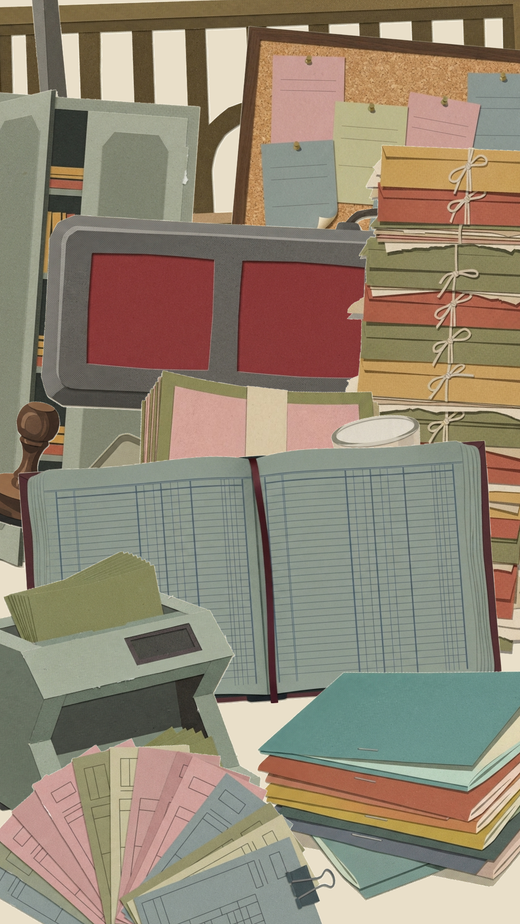
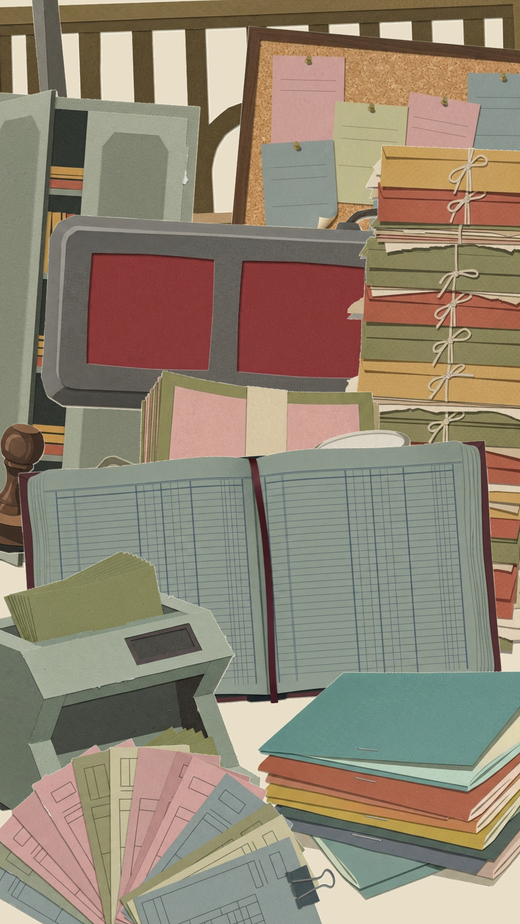
Ep04 Shot 0: wire the solved layout in and retime for thirteen pieces
BankFlatLay now carries the coverage-verified layout, with both width and
height set from the ratio measured off each keyed PNG rather than the
ratio its prompt asked for -- setting width alone leaves the image
resolving height:100% against an indefinite parent.

Every piece passes textureOpacity 0. PaperCutout's grain overlay is an
AbsoluteFill over the whole div rather than the artwork's silhouette, so
thirteen stacked pieces would paint thirteen pale rectangles; the shot
lays one grain pass over the finished frame instead.

Retimed from sixteen pieces to thirteen: a prop every 6 frames (three
stop-motion steps, so placements land on the beat) fills the frame in
2.4s, and it comes apart in 0.9s. Schedule checked piece by piece --
nothing leaves before it arrives, everything is placed by PLACE_END and
gone by CLEAR_END.

The stamp and the chai glass moved: the stamp was almost entirely behind
the token display and the glass read as a pale ring. Coverage re-verified
at zero exposed pixels after the move.

Workflow defaults repointed at this composition, with stills across the
whole arc, so the push-triggered run is the one worth looking at.

Claude-Session: https://claude.ai/code/session_01SJNGrqP1uFyqHiVsoy6fZD

Changed region(s): [[0.0, 0.4242, 0.1231, 0.6061], [0.6154, 0.4242, 0.8308, 0.4848], [0.1846, 0.4545, 0.2769, 0.5152]]

diff --git a/src/compositions/episode04/shot00/BankFlatLay.tsx b/src/compositions/episode04/shot00/BankFlatLay.tsx
@@ -33,37 +33,54 @@ type Piece = {
 	/** Centre of the piece, in frame pixels. */
 	x: number;
 	y: number;
-	/** Rendered width; height follows the art's own aspect. */
+	/**
+	 * Rendered size. BOTH are given, and `h` is `w` divided by the ratio
+	 * MEASURED off the keyed PNG — not the ratio the prompt asked for, which
+	 * the generator treats as a suggestion. Setting width alone leaves the
+	 * image resolving `height: 100%` against an indefinite parent, which works
+	 * until it doesn't; setting both is the pattern Episodes 01-03 use.
+	 */
 	w: number;
+	h: number;
 	rot: number;
 };
 
 /**
- * Order in this array is PLACEMENT order. It is not arbitrary: the counter
- * and the grille go down first because everything else needs something to sit
- * on, and the chai glass is last because it is the only thing here a person
- * put down themselves.
+ * Order in this array is PLACEMENT order, and it is not arbitrary: the grille
+ * and the board go up first because they are the room, then the furniture,
+ * then the paper, and the chai glass is nearly last because it is the only
+ * thing here a person put down themselves.
  *
- * Deliberately over-scaled and overlapping — by PLACE_END not one pixel of
- * the man may be showing, or the clearing has nothing to clear.
+ * The numbers are not eyeballed. `scripts/flatlay-coverage.mjs` rebuilds this
+ * exact composite offline and counts how many of the man's pixels are still
+ * exposed; these are the values that got that to zero, out of 393,993, with
+ * 94.5% of the frame covered. Change any of them and re-run it — the shot
+ * only works if the built frame hides him completely.
+ *
+ * It took three passes to get there, and the interesting failure was the
+ * first: the grille was over his head, and 9% of him showed straight through
+ * it, because the gaps between its bars are transparent BY DESIGN. A piece
+ * that reads as solid is not necessarily a piece that covers anything.
+ *
+ * Thirteen pieces, not sixteen. `laptop-screen`, `desk-lamp` and
+ * `wall-clock-face` would have been natural additions, but all three are
+ * untrimmed Episode 02 art sitting on a 1200x896 canvas, and trimming them
+ * now would move them inside Episode 02's shots.
  */
 const PIECES: Piece[] = [
-	{asset: 'bank-grille', x: 540, y: 620, w: 980, rot: -2},
-	{asset: 'steel-almirah', x: 175, y: 380, w: 470, rot: 4},
-	{asset: 'notice-board', x: 830, y: 250, w: 520, rot: -6},
-	{asset: 'token-display', x: 400, y: 130, w: 520, rot: 3},
-	{asset: 'queue-post', x: 985, y: 780, w: 300, rot: -5},
-	{asset: 'note-counter', x: 195, y: 900, w: 480, rot: -7},
-	{asset: 'file-tower', x: 900, y: 1130, w: 420, rot: 6},
-	{asset: 'ledger-open', x: 560, y: 1000, w: 620, rot: -4},
-	{asset: 'form-pile', x: 250, y: 1290, w: 540, rot: 9},
-	{asset: 'passbook-stack', x: 700, y: 1420, w: 500, rot: -8},
-	{asset: 'cash-stack', x: 940, y: 1620, w: 460, rot: 5},
-	{asset: 'laptop-screen', x: 300, y: 1680, w: 500, rot: -6},
-	{asset: 'desk-lamp', x: 990, y: 400, w: 340, rot: 8},
-	{asset: 'wall-clock-face', x: 620, y: 1780, w: 380, rot: -10},
-	{asset: 'rubber-stamp', x: 480, y: 780, w: 340, rot: 12},
-	{asset: 'chai-glass', x: 760, y: 870, w: 280, rot: -9},
+	{asset: 'bank-grille', x: 540, y: 250, w: 1160, h: 512, rot: -2},
+	{asset: 'notice-board', x: 830, y: 330, w: 680, h: 500, rot: 5},
+	{asset: 'queue-post', x: 200, y: 240, w: 430, h: 701, rot: -5},
+	{asset: 'steel-almirah', x: 150, y: 700, w: 470, h: 1023, rot: 4},
+	{asset: 'token-display', x: 470, y: 640, w: 760, h: 450, rot: 3},
+	{asset: 'file-tower', x: 930, y: 820, w: 450, h: 1054, rot: 6},
+	{asset: 'rubber-stamp', x: 170, y: 1060, w: 460, h: 303, rot: 12},
+	{asset: 'cash-stack', x: 540, y: 935, w: 520, h: 320, rot: 10},
+	{asset: 'chai-glass', x: 770, y: 1085, w: 390, h: 385, rot: -9},
+	{asset: 'ledger-open', x: 540, y: 1200, w: 980, h: 524, rot: -4},
+	{asset: 'note-counter', x: 230, y: 1460, w: 580, h: 619, rot: -7},
+	{asset: 'passbook-stack', x: 860, y: 1620, w: 650, h: 483, rot: -8},
+	{asset: 'form-pile', x: 330, y: 1790, w: 740, h: 497, rot: 9},
 ];
 
 /**
@@ -112,12 +129,23 @@ export const BankFlatLay: React.FC = () => {
 						style={{
 							position: 'absolute',
 							left: p.x - p.w / 2 + dx,
-							top: p.y - p.w / 2 + dy,
+							top: p.y - p.h / 2 + dy,
 							width: p.w,
+							height: p.h,
 							transform: `rotate(${p.rot + dr}deg)`,
 						}}
 					>
-						<PaperCutout asset={p.asset} elevation={0.8} />
+						{/* textureOpacity 0: PaperCutout's grain overlay is an
+						    AbsoluteFill over the whole div, not the artwork's
+						    silhouette, so on thirteen stacked pieces it paints
+						    thirteen pale rectangles. The shot lays one grain
+						    pass over the finished frame instead. */}
+						<PaperCutout
+							asset={p.asset}
+							elevation={0.8}
+							textureOpacity={0}
+							style={{width: p.w, height: p.h}}
+						/>
 					</div>
 				);
 			})}

diff --git a/src/compositions/episode04/shot00/beats.ts b/src/compositions/episode04/shot00/beats.ts
@@ -17,12 +17,13 @@
  *
  * Three acts:
  *
- *   PLACE   f0-f72    sixteen bank props arrive one at a time, on the beat,
- *                     until not one pixel of him is showing.
- *   HOLD    f72-f84   the bank, complete, with nobody visibly in it.
- *   CLEAR   f84-f120  the props leave twice as fast as they arrived, from
- *                     the centre outwards, so he is glimpsed through the
- *                     gaps several steps before the ground is bare.
+ *   PLACE   f0-f78     thirteen bank props arrive one at a time, on the beat,
+ *                      until not one pixel of him is showing — verified, not
+ *                      assumed: see scripts/flatlay-coverage.mjs.
+ *   HOLD    f78-f90    the bank, complete, with nobody visibly in it.
+ *   CLEAR   f90-f116   the props leave three times as fast as they arrived,
+ *                      from the centre outwards, so he is glimpsed through
+ *                      the gaps several steps before the ground is bare.
  *
  * Then the lights go out around him and he is left in a disc of paper light —
  * the reference's hard cut to a spotlit card, repurposed as punctuation for
@@ -41,27 +42,34 @@
  */
 export const STEP = 2;
 
-/** A prop arrives every PLACE_EVERY frames — two steps, so it lands on the beat. */
+/**
+ * A prop arrives every PLACE_EVERY frames. It must be a multiple of STEP, or
+ * placements land between the stop-motion hops and the build stops reading as
+ * one rhythm — at three steps a piece, thirteen pieces fill the frame in 2.4s.
+ */
 export const PLACE_START = 0;
-export const PLACE_EVERY = 4;
-export const PLACE_END = 72;
+export const PLACE_EVERY = 6;
+/** Last piece lands on f72; this is the frame the bank is finished. */
+export const PLACE_END = 78;
 
 /** The complete bank, held. Nobody in it. */
-export const HOLD_END = 84;
+export const HOLD_END = 90;
 
 /**
- * The clearing. One prop a step, half the placing interval: things are taken
- * away faster than they were put down, which is the joke.
+ * The clearing. One prop a step — a third of the placing interval, so the
+ * bank comes apart in 0.9s having taken 2.4s to build. Things are taken away
+ * much faster than they were put down, which is the joke.
  */
-export const CLEAR_START = 84;
+export const CLEAR_START = 90;
 export const CLEAR_EVERY = 2;
-export const CLEAR_END = 120;
+/** Last piece leaves on f114. */
+export const CLEAR_END = 116;
 
 /**
  * The lights. Not a fade — a cut, on the frame the last prop leaves, so the
  * two events read as one.
  */
-export const SPOTLIGHT = 120;
+export const SPOTLIGHT = 116;
 
 /** A held beat on him alone before the episode proper starts. */
 export const EP04_SHOT_00_DURATION = 150;

diff --git a/src/compositions/episode04/shot00/Shot00ColdOpen.tsx b/src/compositions/episode04/shot00/Shot00ColdOpen.tsx
@@ -17,6 +17,8 @@ import {SPOTLIGHT} from './beats';
 const SUBJECT_CX = 540;
 const SUBJECT_CY = 880;
 const SUBJECT_W = 760;
+/** 760 / 0.881, the ratio measured off the keyed art rather than asked for. */
+const SUBJECT_H = 862;
 
 /**
  * The spotlight. Geometry taken from the reference as a fraction of its frame
@@ -51,11 +53,17 @@ export const Shot00ColdOpen: React.FC = () => {
 				style={{
 					position: 'absolute',
 					left: SUBJECT_CX - SUBJECT_W / 2,
-					top: SUBJECT_CY - SUBJECT_W / 2,
+					top: SUBJECT_CY - SUBJECT_H / 2,
 					width: SUBJECT_W,
+					height: SUBJECT_H,
 				}}
 			>
-				<PaperCutout asset="bank-employee" elevation={1} />
+				<PaperCutout
+					asset="bank-employee"
+					elevation={1}
+					textureOpacity={0}
+					style={{width: SUBJECT_W, height: SUBJECT_H}}
+				/>
 			</div>
 
 			<BankFlatLay />
